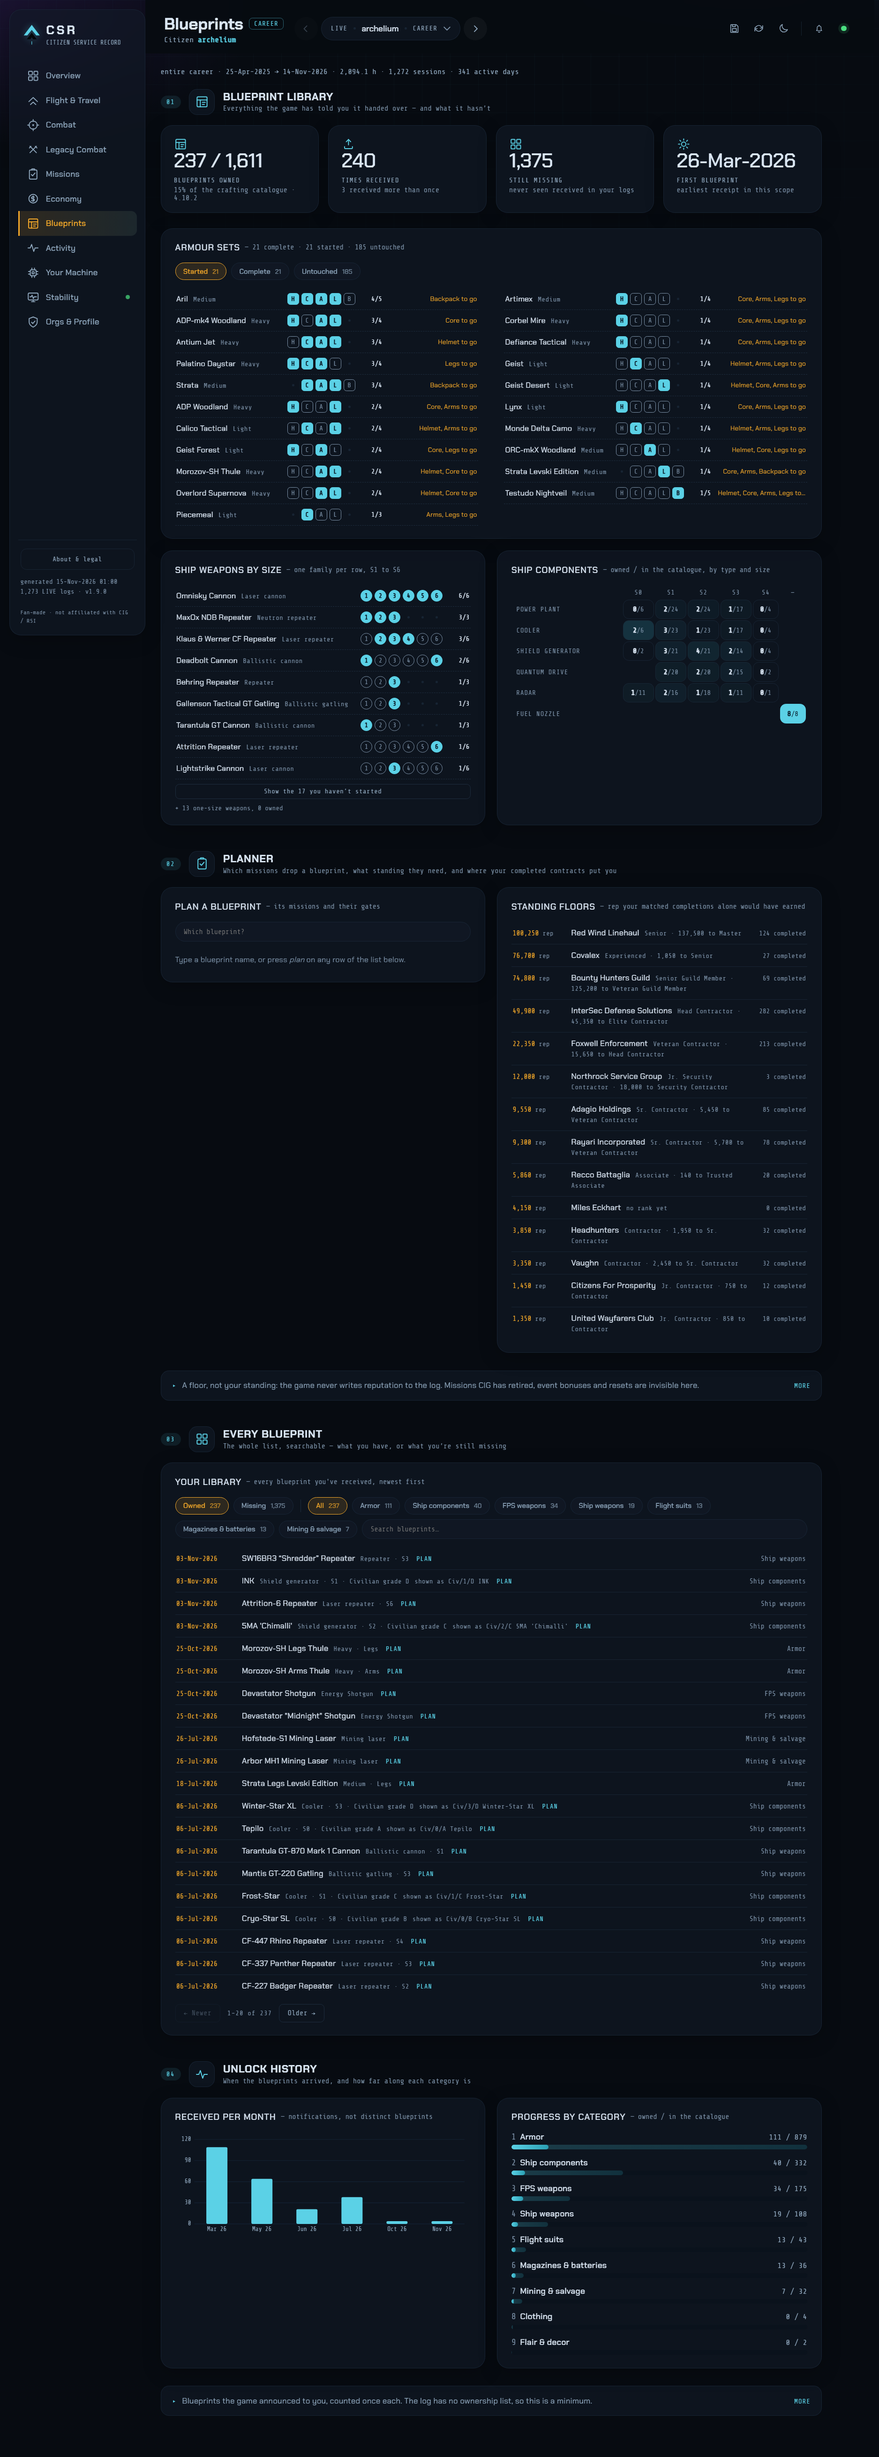
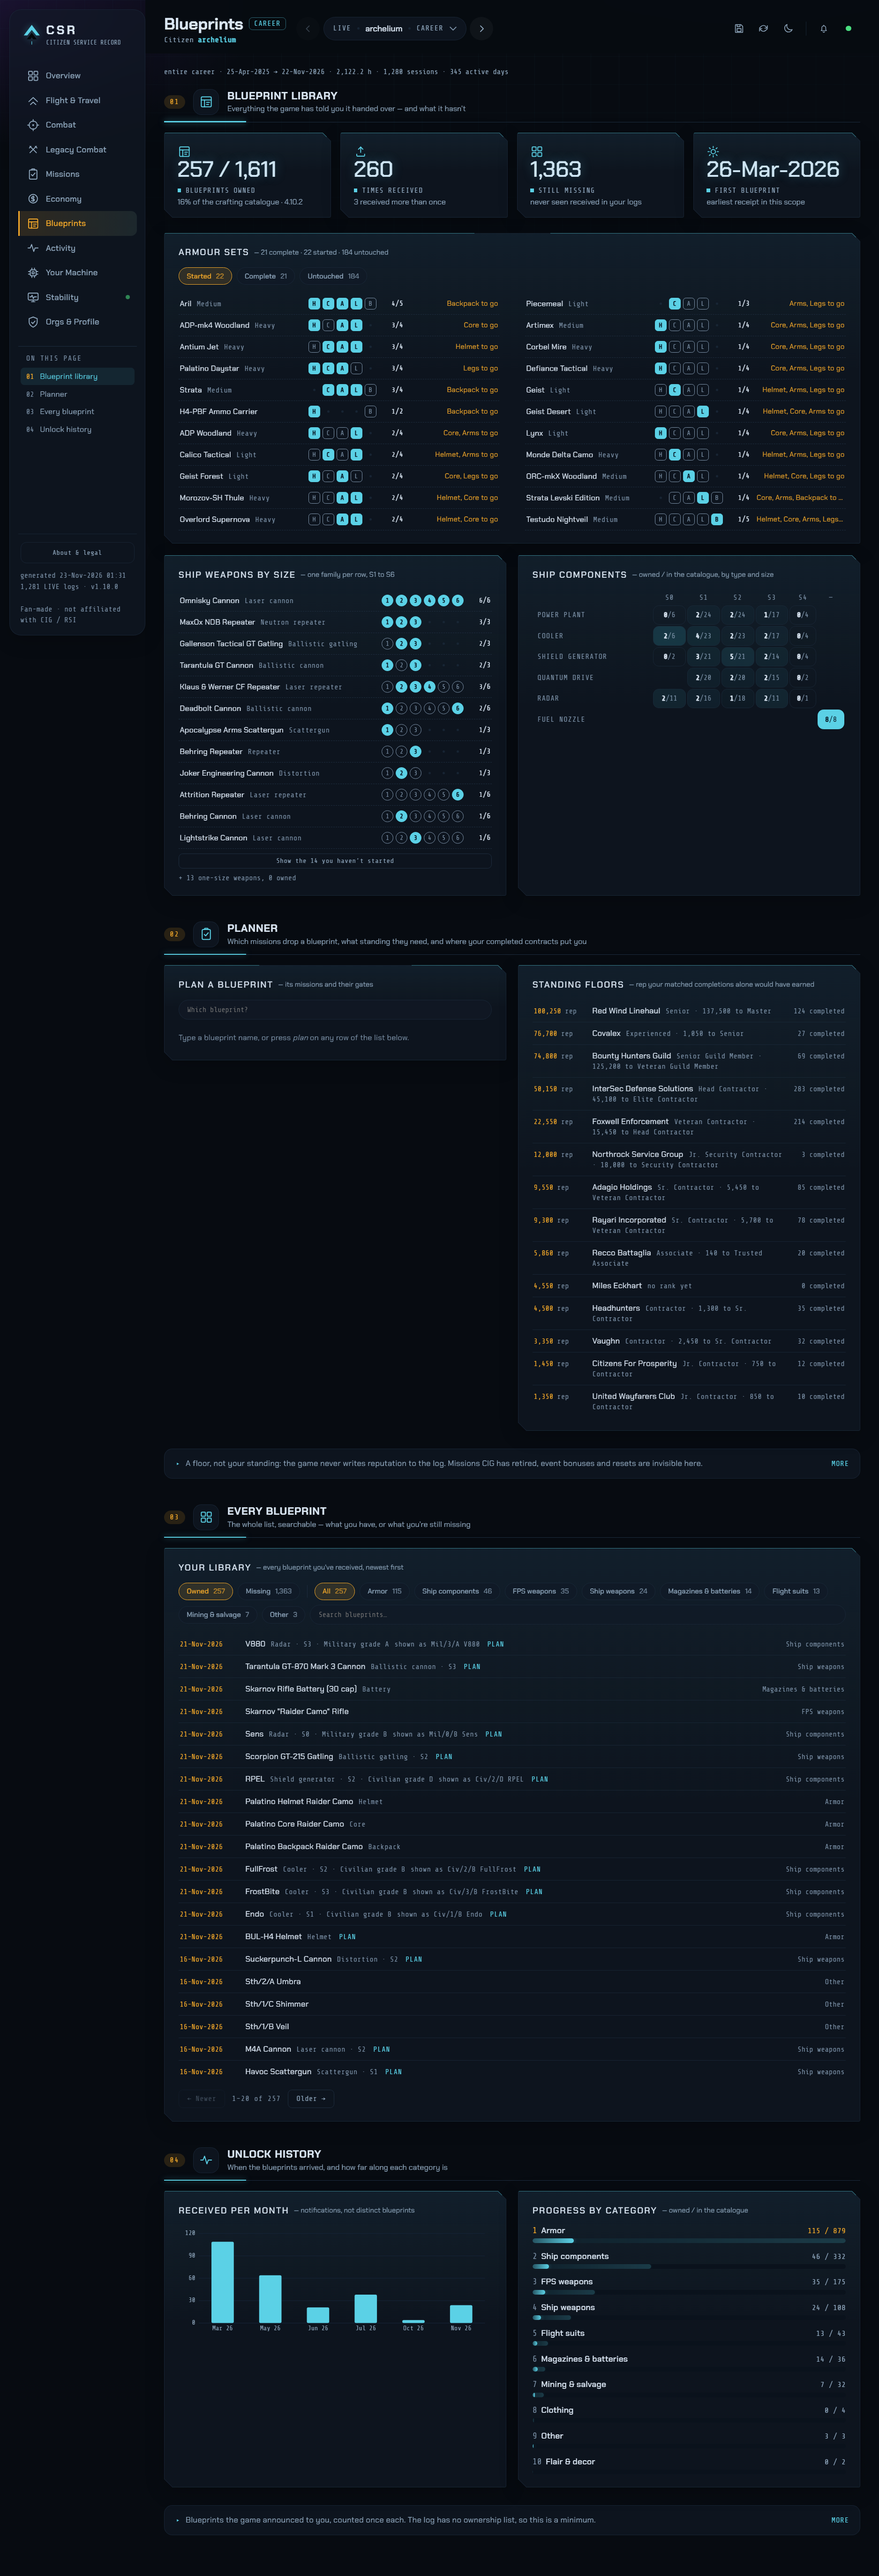
release: v1.10.0 — HUD look, readable type, On this page sidebar, fluid layout
Retake all five README screenshots on the new look. README: On this page and the
full-width layout, upgrade table on 1.10.0.

diff --git a/sc_stats.py b/sc_stats.py
@@ -47,7 +47,7 @@ import sc_names
 
 SCRIPT_DIR = os.path.dirname(os.path.abspath(__file__))
 
-CSR_VERSION = "1.9.3"
+CSR_VERSION = "1.10.0"
 CSR_CONTACT = "support@archelium.com"      # publisher/contact (archelium.com)
 # Bump whenever scan_log() learns to extract something new or fixes an extraction bug.
 # A quick refresh reuses archived sessions only when they were parsed by THIS version,

diff --git a/make_release.py b/make_release.py
@@ -14,7 +14,7 @@ import shutil
 import tempfile
 import zipfile
 
-VERSION = "1.9.3"
+VERSION = "1.10.0"
 EXES = ["dist/CSR.exe"]
 DOCS = {"README.md": "README.txt", "PRIVACY.md": "PRIVACY.txt",
         "DISCLAIMER.md": "DISCLAIMER.txt", "LICENSE": "LICENSE.txt",

diff --git a/README.md b/README.md
@@ -110,14 +110,14 @@ CSR is portable, so updating is just **replace the exe**:
 keeps sessions Star Citizen has since deleted from your log folder. If you want a
 belt-and-braces backup first, open CSR and use **💾 Backup & transfer → Export**.
 
-What happens on your first run of v1.9.3, depending on where you're coming from:
+What happens on your first run of v1.10.0, depending on where you're coming from:
 
 | Coming from | What to expect |
 |---|---|
 | **v1.0.0** | v1.0.0 kept no archive, so your history is rebuilt from whatever logs you still have. If your saved folder was `…\StarCitizen\LIVE`, CSR now finds `PTU` and `TECH-PREVIEW` beside it on its own — **no need to re-pick a folder** — and a **Channel** dropdown appears if it finds any. |
-| **v1.1.0 – v1.9.2** | Your archive carries over untouched. |
+| **v1.1.0 – v1.9.3** | Your archive carries over untouched. |
 | **v1.0.0 – v1.9.1** | The first scan re-reads **every** log (a minute or so). This is deliberate: each release fixes parsing bugs or extracts new data, so nothing older is trusted. It happens once — after that CSR starts, and refreshes, in about a second. |
-| **v1.9.2** | No re-read. The new names show on the first page build. |
+| **v1.9.2 – v1.9.3** | No re-read. The new look shows on the first page build. |
 
 Coming from **v1.2.0** specifically, the first run also *moves* some existing numbers,
 because v1.3.0 converts session times from the log's UTC stamps to your own clock: the
@@ -152,10 +152,11 @@ share. (No server, so no in-page Refresh button — re-run to update.)
 
 ## What's in the dashboard
 
-A left sidebar of sections; a top bar with an **account** dropdown, a **patch**
-dropdown (*Career*, then every patch found in your logs), a light/dark toggle, and
-Refresh. Every section
-is scoped by account × patch. On **Overview**, click any bar in *Playtime by
+A left sidebar of sections, with an **On this page** list of the open tab's groups on
+long tabs (click to jump, the group you're reading lights up); a top bar with an
+**account** dropdown, a **patch** dropdown (*Career*, then every patch found in your
+logs), a light/dark toggle, and Refresh. The page uses the full width of your window.
+Every section is scoped by account × patch. On **Overview**, click any bar in *Playtime by
 Patch* to filter to that patch (and *↩ View career* to reset).
 
 - **Overview** — RSI profile, snapshot KPIs, click-to-filter playtime-by-patch,

diff --git a/CHANGELOG.md b/CHANGELOG.md
@@ -5,7 +5,7 @@ The format is based on [Keep a Changelog](https://keepachangelog.com/), and CSR
 uses [Semantic Versioning](https://semver.org/) (MAJOR.MINOR.PATCH).
 
 
-## [Unreleased]
+## [1.10.0] — 2026-11-23
 
 ### Added
 - **On this page** (sidebar). Tabs with three or more groups list them under the nav.
